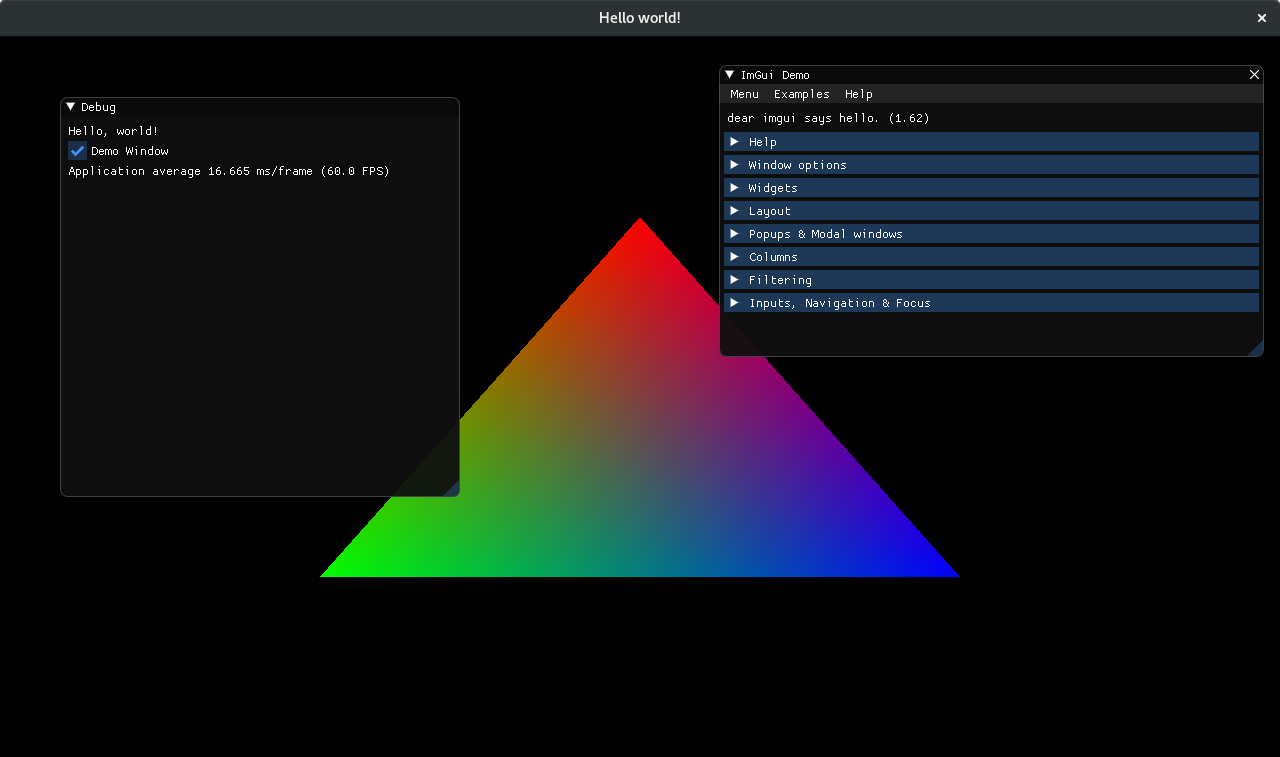
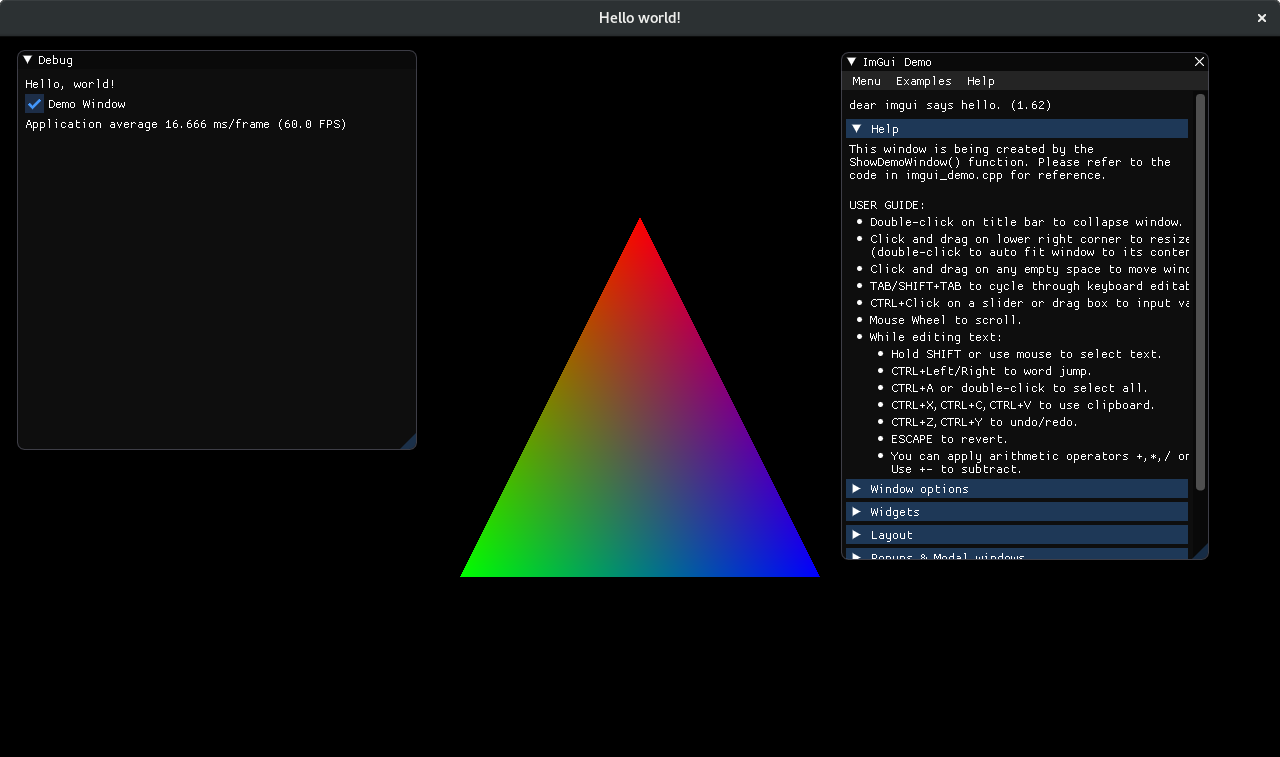
- fixed aspect ratio scaling - fixed processing of input

diff --git a/src/main.cpp b/src/main.cpp
@@ -4,6 +4,9 @@
 #include <GL/gl3w.h>
 #include <GLFW/glfw3.h>
 
+#include <glm/glm.hpp>
+#include <glm/gtc/matrix_transform.hpp>
+
 #include <imgui.h>
 #include <imgui_impl_glfw.h>
 #include <imgui_impl_opengl3.h>
@@ -15,6 +18,10 @@
 //-----------------------------------------------------------------------------
 unsigned int win_w = 1280;
 unsigned int win_h = 720;
+
+float fovY = 90.f;
+float zNear = 0.1f;
+float zFar = 30.f;
 
 #define REQUIRED_OGL_VERSION_MAJOR 3
 #define REQUIRED_OGL_VERSION_MINOR 3
@@ -43,7 +50,7 @@ int main(int, char**)
     glEnable(GL_CULL_FACE);
     glCullFace(GL_BACK);
     glEnable(GL_BLEND);
-	glBlendFunc(GL_SRC_ALPHA, GL_ONE_MINUS_SRC_ALPHA);
+    glBlendFunc(GL_SRC_ALPHA, GL_ONE_MINUS_SRC_ALPHA);
     glClearColor(0.f, 0.f, 0.f, 1.f);
 
     Shader shaderProg("src/shader/simple.vert", "src/shader/simple.frag");
@@ -93,14 +100,41 @@ int main(int, char**)
     // render loop
     // -----------
     bool show_demo_window = false;
+
+    glm::mat4 modelMX = glm::scale(
+        glm::mat4(1.f),
+        glm::vec3(1.f));
+
+    glm::mat4 viewMX = glm::lookAt(
+        glm::vec3(0.f, 0.f, 1.f),
+        glm::vec3(0.f),
+        glm::vec3(0.f, 1.f, 0.f));
+
+    glm::mat4 projMX = glm::perspective(
+        glm::radians(fovY),
+        static_cast<float>(win_w)/static_cast<float>(win_h),
+        0.1f,
+        50.0f);
+
     while (!glfwWindowShouldClose(window))
     {
         glfwPollEvents();
+        process_input(window);
 
         glClear(GL_COLOR_BUFFER_BIT);
 
         // draw the triangle
+        projMX = glm::perspective(
+            glm::radians(fovY),
+            static_cast<float>(win_w)/static_cast<float>(win_h),
+            zNear,
+            zFar);
         shaderProg.use();
+        shaderProg.setMat4("modelMX", modelMX);
+        shaderProg.setMat4("viewMX", viewMX);
+        shaderProg.setMat4("projMX", projMX);
+        shaderProg.setMat4("pvMX", projMX * viewMX);
+        shaderProg.setMat4("pvmMX", projMX * viewMX * modelMX);
         glBindVertexArray(VAO);
         glDrawElements(GL_TRIANGLES, 3, GL_UNSIGNED_INT, 0);
         glBindVertexArray(0);
@@ -170,18 +204,18 @@ GLFWwindow* createWindow(
 
 void initializeGl3w()
 {
-	if (gl3wInit())
+    if (gl3wInit())
     {
         std::cerr << "Failed to initialize OpenGL" << std::endl;
-		glfwTerminate();
-		exit(EXIT_FAILURE);
+        glfwTerminate();
+        exit(EXIT_FAILURE);
     }
     if (!gl3wIsSupported(
             REQUIRED_OGL_VERSION_MAJOR, REQUIRED_OGL_VERSION_MINOR))
     {
         std::cerr << "OpenGL " << REQUIRED_OGL_VERSION_MAJOR << "." <<
             REQUIRED_OGL_VERSION_MINOR << " not supported" << std::endl;
-		exit(EXIT_FAILURE);
+        exit(EXIT_FAILURE);
     }
     std::cout << "OpenGL " << glGetString(GL_VERSION) << ", GLSL " <<
         glGetString(GL_SHADING_LANGUAGE_VERSION) << std::endl;
@@ -216,6 +250,7 @@ void framebuffer_size_cb(
 {
     win_w = width;
     win_h = height;
+    std::cout << win_w << win_w;
 }
 
 void error_cb(int error, const char* description)
